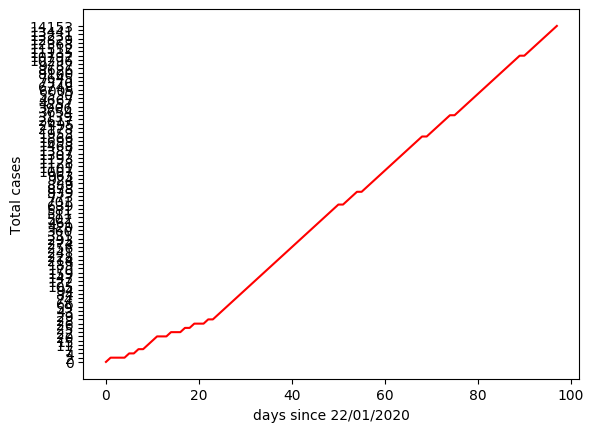
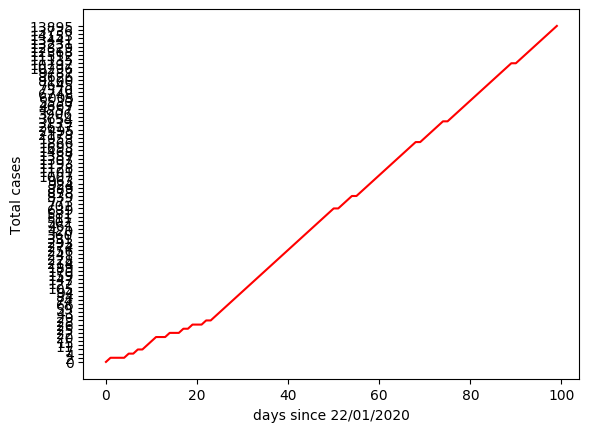
renewed the statistics

diff --git a/stats_page.html b/stats_page.html
@@ -27,38 +27,38 @@
     <a href="https://www.worldometers.info/coronavirus/", target="_blank">
       <div class="cases source">
         <h1>World-wide cases</h1>
-        <p>Total: 3,188,596</p>
-        <p>Active: 1,976,360</p>
-        <p>Recovered: 986,621</p>
-        <p>Deaths: 1,976,360</p>
+        <p>Total: 3,249,764</p>
+        <p>Active: 2,003,151</p>
+        <p>Recovered: 1,017,171</p>
+        <p>Deaths: 229,442</p>
       </div>
     </a>
     <div class="cases">
       <h1>Lebanese cases</h1>
-      <p>Total: 721</p>
-      <p>Active: 547</p>
+      <p>Total: 725</p>
+      <p>Active: 551</p>
       <p>Recovered: 150</p>
-      <p>Deaths: 547</p>
+      <p>Deaths: 24</p>
       <img src="python_program/images/data_corona_plot_Lebanon.png", alt="line plot">
     </div>
     <div class="cases">
       <h1>Iranian cases</h1>
-      <p>Total: 93,657</p>
-      <p>Active: 13,909</p>
-      <p>Recovered: 73,791</p>
-      <p>Deaths: 13,909</p>
+      <p>Total: 94,640</p>
+      <p>Active: 13,509</p>
+      <p>Recovered: 75,103</p>
+      <p>Deaths: 6,028</p>
       <img src="python_program/images/data_corona_plot_Iran.png", alt="line plot">
     </div>
     <div class="cases">
       <h1>Japanese cases</h1>
-      <p>Total: 13,736</p>
-      <p>Active: 11,443</p>
-      <p>Recovered: 1,899</p>
-      <p>Deaths: 11,443</p>
+      <p>Total: 13,965</p>
+      <p>Active: 11,172</p>
+      <p>Recovered: 2,368</p>
+      <p>Deaths: 425</p>
       <img src="python_program/images/data_corona_plot_Japan.png", alt="line plot">
     </div>
     <div class="updt">
-      <p>Last update: 28/04/2020</p>
+      <p>Last update: 29/04/2020</p>
     </div>
   </body>
 </html>

diff --git a/index.html b/index.html
@@ -44,15 +44,15 @@
         <h1 class="info_title">Statistics</h1>
         <div class="stats_div">
           <h3 class="stats_title">World-wide cases</h1>
-          <p class="stats_numbers">Total: 3,188,596</p>
-          <p class="stats_numbers">Active: 1,976,360</p>
-          <p class="stats_numbers">Recovered: 986,621</p>
-          <p class="stats_numbers">Deaths: 225,615</p>
+          <p class="stats_numbers">Total: 3,249,764</p>
+          <p class="stats_numbers">Active: 2,003,151</p>
+          <p class="stats_numbers">Recovered: 1,017,171</p>
+          <p class="stats_numbers">Deaths: 229,442</p>
         </div>
         <div class="stats_div">
           <h3 class="stats_title">Lebanese cases</h1>
-          <p class="stats_numbers">Total: 721</p>
-          <p class="stats_numbers">Active: 547</p>
+          <p class="stats_numbers">Total: 725</p>
+          <p class="stats_numbers">Active: 551</p>
           <p class="stats_numbers">Recovered: 150</p>
           <p class="stats_numbers">Deaths: 24</p>
         </div>
